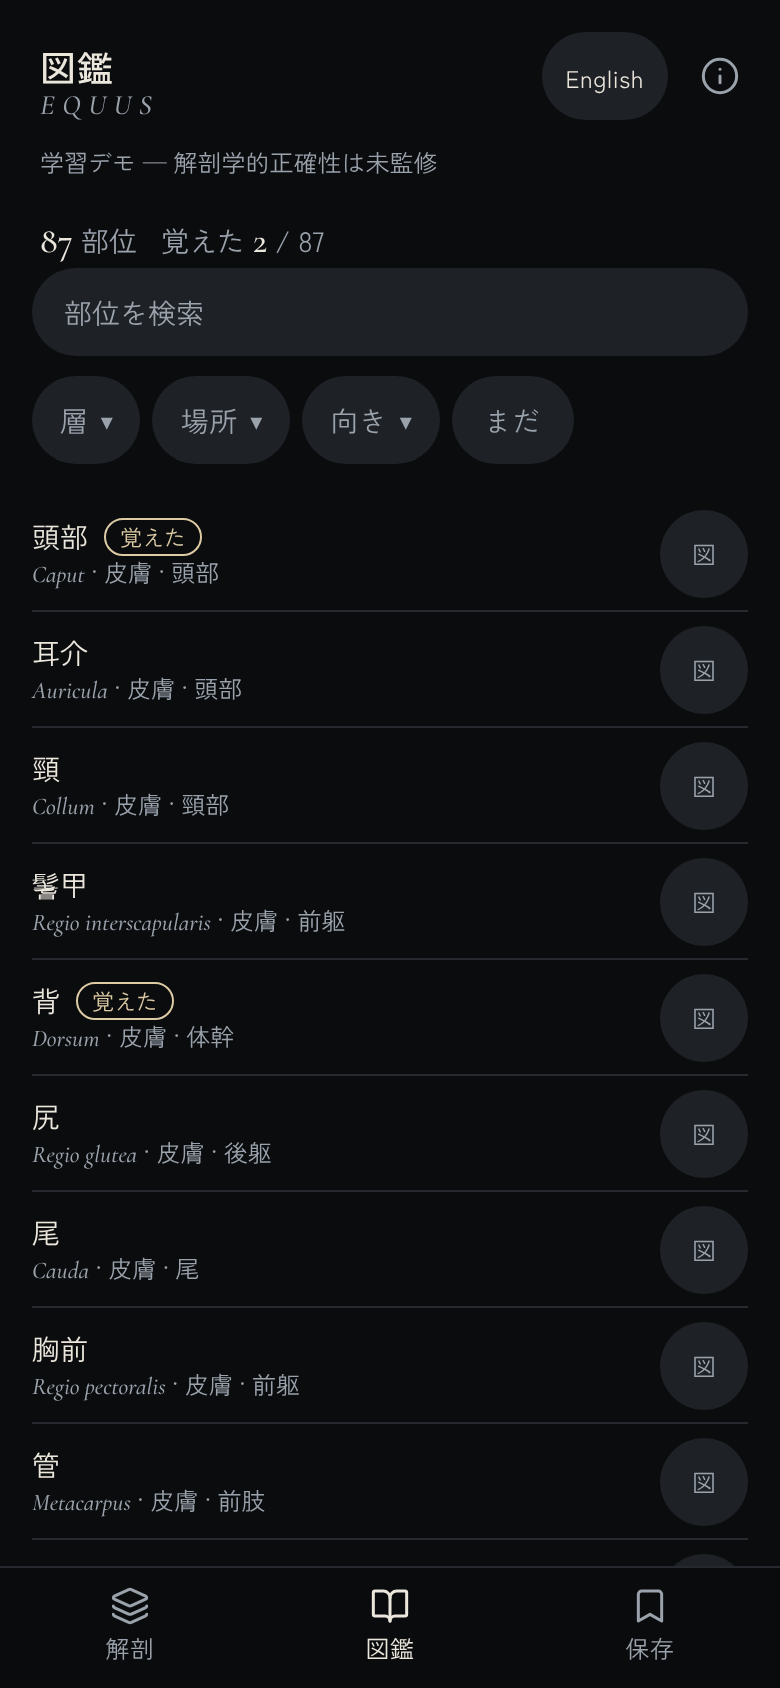
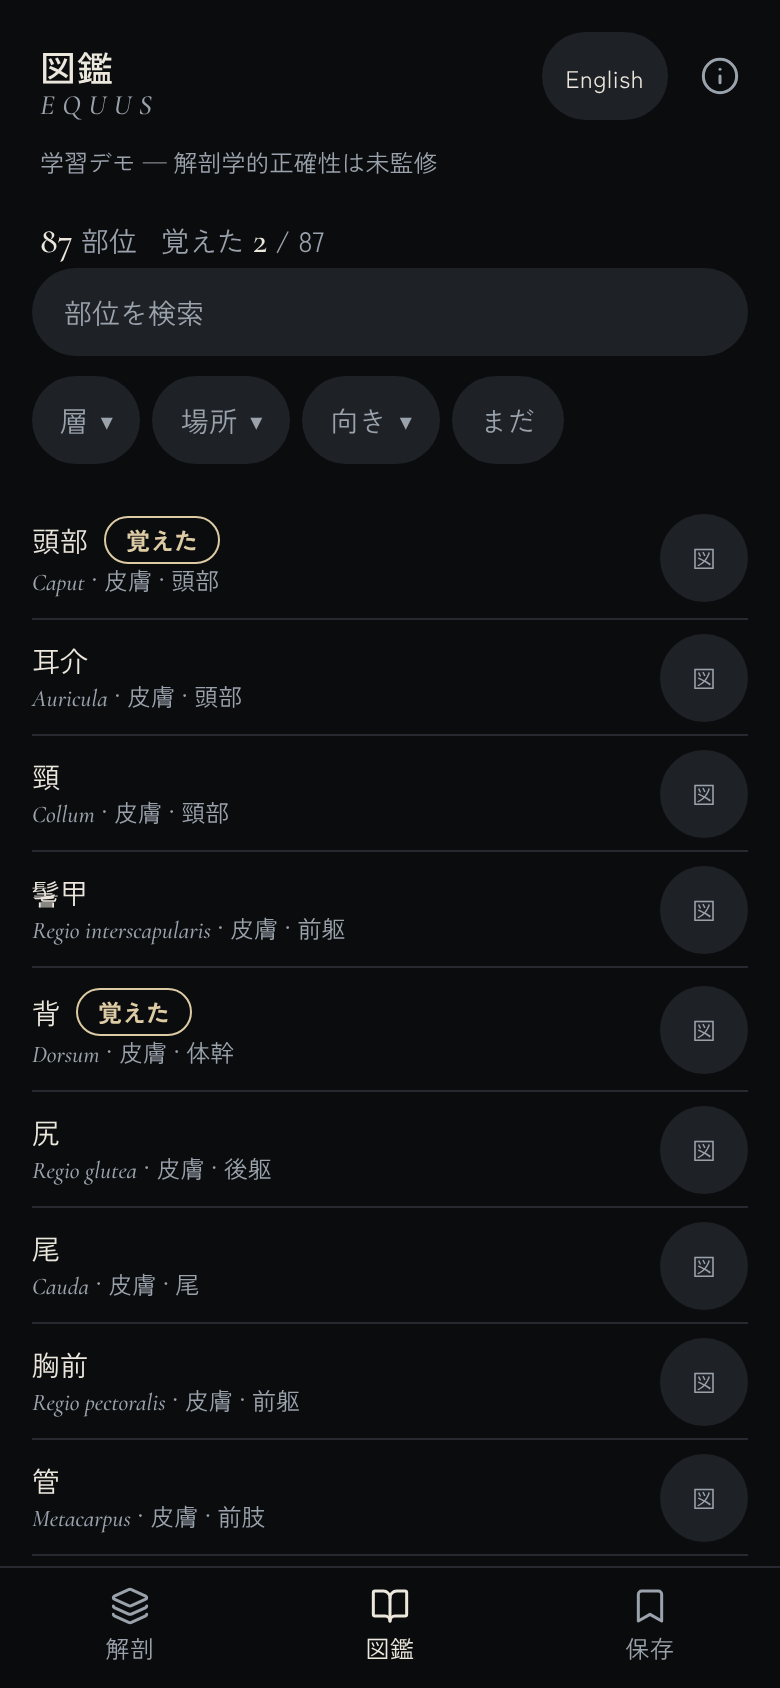
fix(catalog): size the learned badge and not-yet button to the design
Claude-Session: https://claude.ai/code/session_01Cv4a6DggpGHJAmmfXW7wbW

diff --git a/src/app/(tabs)/catalog/index.tsx b/src/app/(tabs)/catalog/index.tsx
@@ -13,7 +13,7 @@ import { FilterButton } from '../../../ui/filter-sheet'
 import { useLocale, useT } from '../../../ui/locale-store'
 import { useMastery } from '../../../ui/mastery-store'
 import { usePersistenceRetryOnFocus } from '../../../ui/persistence-banner'
-import { color, fontDisplay, fontDisplayItalic, fontSans, radius } from '../../../ui/theme'
+import { color, fontDisplay, fontDisplayItalic, fontSans, fontSansBold, radius } from '../../../ui/theme'
 
 const LAYER_IDS = ['skin', 'muscle', 'skeleton', 'organs'] as const satisfies readonly Layer[]
 const VIEW_IDS = ['left', 'right', 'front', 'rear'] as const satisfies readonly AnatomyView[]
@@ -312,14 +312,14 @@ const styles = StyleSheet.create({
   root: { flex: 1, backgroundColor: color.bg },
   listHeader: { marginHorizontal: -16, paddingBottom: 8 },
   countWrap: { paddingHorizontal: 20, paddingBottom: 4, flexDirection: 'row', alignItems: 'baseline', gap: 12 },
-  badge: { borderWidth: 1, borderColor: color.bone, borderRadius: radius.pill, paddingHorizontal: 7, paddingVertical: 1, flexShrink: 0 },
-  badgeText: { fontFamily: fontSans, fontSize: 11, lineHeight: 15, color: color.bone },
+  badge: { minHeight: 24, borderWidth: 1, borderColor: color.bone, borderRadius: 12, paddingHorizontal: 10, justifyContent: 'center', flexShrink: 0 },
+  badgeText: { fontFamily: fontSansBold, fontSize: 12, lineHeight: 16, color: color.bone },
   nameLine: { flexDirection: 'row', flexWrap: 'wrap', alignItems: 'center', gap: 8 },
-  toggle: { minHeight: 44, borderRadius: radius.pill, paddingHorizontal: 16, justifyContent: 'center' },
+  toggle: { minHeight: 44, borderRadius: radius.pill, paddingHorizontal: 14, justifyContent: 'center' },
   toggleOn: { backgroundColor: color.bone },
   toggleOff: { backgroundColor: color.raised },
-  toggleText: { fontFamily: fontSans, fontSize: 14, letterSpacing: 0.35 },
-  toggleTextOn: { color: color.accentFg },
+  toggleText: { fontFamily: fontSans, fontSize: 14 },
+  toggleTextOn: { fontFamily: fontSansBold, color: color.accentFg },
   toggleTextOff: { color: color.muted },
   count: { fontFamily: fontSans, fontSize: 14, lineHeight: 20, color: color.muted },
   countNum: { fontFamily: fontDisplay, fontSize: 18, color: color.fg },
